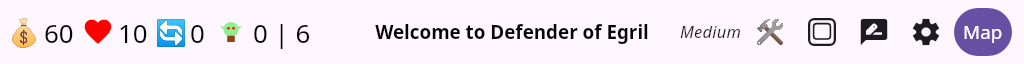
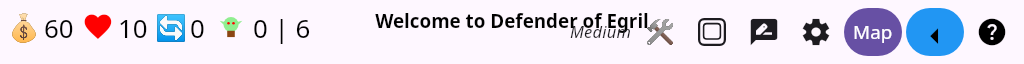
fix waagh meter in level header

Changed region(s): [[0.3438, 0.125, 1.0, 0.875], [0.0, 0.2188, 0.3125, 0.75]]

diff --git a/frontend/composeApp/src/commonMain/kotlin/de/egril/defender/ui/gameplay/GameHeader.kt b/frontend/composeApp/src/commonMain/kotlin/de/egril/defender/ui/gameplay/GameHeader.kt
@@ -115,88 +115,84 @@ fun GameHeader(
                     .padding(8.dp)
                     .zIndex(2f),
         ) {
-            Row(
+            val locale = com.hyperether.resources.currentLanguage.value
+            val titleFontSize =
+                when (headerTextSize) {
+                    de.egril.defender.ui.settings.HeaderTextSize.SMALL -> GamePlayConstants.TextSizes.Body
+                    de.egril.defender.ui.settings.HeaderTextSize.MEDIUM -> GamePlayConstants.TextSizes.Medium
+                    de.egril.defender.ui.settings.HeaderTextSize.LARGE -> GamePlayConstants.TextSizes.Large
+                }
+
+            Box(
                 modifier = Modifier.fillMaxWidth(),
-                verticalAlignment = Alignment.CenterVertically,
+                contentAlignment = Alignment.Center,
             ) {
-                Box(
-                    modifier = Modifier.weight(1f),
-                    contentAlignment = Alignment.CenterStart,
-                ) {
+                if (isDemoMode) {
                     Row(
-                        horizontalArrangement = Arrangement.spacedBy(GamePlayConstants.Spacing.Items),
+                        modifier =
+                            Modifier.then(if (onDemoTitleClick != null) Modifier.clickable { onDemoTitleClick() } else Modifier),
+                        horizontalArrangement = Arrangement.Center,
                         verticalAlignment = Alignment.CenterVertically,
                     ) {
-                        GameStats(
-                            gameState = gameState,
-                            onCheatCode = onCheatCode,
-                            headerTextSize = headerTextSize,
-                            onEnemyCountClick = onEnemyCountClick,
-                            onManaClick = onManaClick,
-                        )
-                    }
-                }
-
-                val locale = com.hyperether.resources.currentLanguage.value
-                val titleFontSize =
-                    when (headerTextSize) {
-                        de.egril.defender.ui.settings.HeaderTextSize.SMALL -> GamePlayConstants.TextSizes.Body
-                        de.egril.defender.ui.settings.HeaderTextSize.MEDIUM -> GamePlayConstants.TextSizes.Medium
-                        de.egril.defender.ui.settings.HeaderTextSize.LARGE -> GamePlayConstants.TextSizes.Large
-                    }
-
-                Box(
-                    modifier = Modifier.weight(1f),
-                    contentAlignment = Alignment.Center,
-                ) {
-                    if (isDemoMode) {
-                        Row(
-                            modifier =
-                                Modifier.then(if (onDemoTitleClick != null) Modifier.clickable { onDemoTitleClick() } else Modifier),
-                            horizontalArrangement = Arrangement.Center,
-                            verticalAlignment = Alignment.CenterVertically,
-                        ) {
-                            Text(
-                                text = "*** DEMO MODE ***",
-                                fontSize = titleFontSize,
-                                fontWeight = FontWeight.Bold,
-                                color = MaterialTheme.colorScheme.error,
-                            )
-                            Text(
-                                text = "  ${gameState.level.getLocalizedTitle(locale)}  ",
-                                fontSize = titleFontSize,
-                                fontWeight = FontWeight.Bold,
-                            )
-                            Text(
-                                text = "*** DEMO MODE ***",
-                                fontSize = titleFontSize,
-                                fontWeight = FontWeight.Bold,
-                                color = MaterialTheme.colorScheme.error,
-                            )
-                        }
-                    } else {
-                        SelectableText(
-                            text =
-                                if (gameState.level.isSandbox) {
-                                    "${stringResource(Res.string.sandbox)} — ${gameState.level.getLocalizedTitle(locale)}"
-                                } else {
-                                    gameState.level.getLocalizedTitle(locale)
-                                },
+                        Text(
+                            text = "*** DEMO MODE ***",
                             fontSize = titleFontSize,
                             fontWeight = FontWeight.Bold,
-                            modifier =
-                                Modifier
-                                    .wrapContentWidth()
-                                    .clickable { showLevelCardDialog = true },
-                            textAlign = TextAlign.Center,
+                            color = MaterialTheme.colorScheme.error,
+                        )
+                        Text(
+                            text = "  ${gameState.level.getLocalizedTitle(locale)}  ",
+                            fontSize = titleFontSize,
+                            fontWeight = FontWeight.Bold,
+                        )
+                        Text(
+                            text = "*** DEMO MODE ***",
+                            fontSize = titleFontSize,
+                            fontWeight = FontWeight.Bold,
+                            color = MaterialTheme.colorScheme.error,
                         )
                     }
+                } else {
+                    SelectableText(
+                        text =
+                            if (gameState.level.isSandbox) {
+                                "${stringResource(Res.string.sandbox)} — ${gameState.level.getLocalizedTitle(locale)}"
+                            } else {
+                                gameState.level.getLocalizedTitle(locale)
+                            },
+                        fontSize = titleFontSize,
+                        fontWeight = FontWeight.Bold,
+                        modifier =
+                            Modifier
+                                .wrapContentWidth()
+                                .clickable { showLevelCardDialog = true },
+                        textAlign = TextAlign.Center,
+                    )
                 }
+            }
 
-                Box(
-                    modifier = Modifier.weight(1f),
-                    contentAlignment = Alignment.CenterEnd,
+            Box(
+                modifier = Modifier.fillMaxWidth(),
+                contentAlignment = Alignment.CenterStart,
+            ) {
+                Row(
+                    horizontalArrangement = Arrangement.spacedBy(GamePlayConstants.Spacing.Items),
+                    verticalAlignment = Alignment.CenterVertically,
                 ) {
+                    GameStats(
+                        gameState = gameState,
+                        onCheatCode = onCheatCode,
+                        headerTextSize = headerTextSize,
+                        onEnemyCountClick = onEnemyCountClick,
+                        onManaClick = onManaClick,
+                    )
+                }
+            }
+
+            Box(
+                modifier = Modifier.fillMaxWidth(),
+                contentAlignment = Alignment.CenterEnd,
+            ) {
                     val buttonHeight =
                         when (headerTextSize) {
                             de.egril.defender.ui.settings.HeaderTextSize.SMALL -> GamePlayConstants.ButtonSizes.CompactHeight
@@ -216,10 +212,14 @@ fun GameHeader(
                             de.egril.defender.ui.settings.HeaderTextSize.LARGE -> GamePlayConstants.TextSizes.Large
                         }
                     Row(
+                        modifier = Modifier.wrapContentWidth(unbounded = true),
                         horizontalArrangement = Arrangement.spacedBy(4.dp),
                         verticalAlignment = Alignment.CenterVertically,
                     ) {
-                        WaaghBar(gameState = gameState)
+                        WaaghBar(
+                            gameState = gameState,
+                            slotHeight = buttonHeight,
+                        )
 
                         LevelHeaderIcons(
                             gameState = gameState,
@@ -488,7 +488,6 @@ fun GameHeader(
                             )
                         }
                     }
-                }
             }
             }
 
@@ -1082,9 +1081,16 @@ internal fun LevelSpecialTowersInfoDialog(
 }
 
 @Composable
-private fun WaaghBar(gameState: GameState) {
+private fun WaaghBar(
+    gameState: GameState,
+    slotHeight: Dp,
+) {
     if (!gameState.level.waaghEnabled || !gameState.hasHordeUnitsInLevel) return
 
+    val slotHeightPx = with(LocalDensity.current) { slotHeight.roundToPx() }
+    val waaghMeterHeight = slotHeight * 2f
+    val waaghMeterWidth = waaghMeterHeight * 2f
+    val waaghMeterVerticalOffset = -(waaghMeterHeight / 4f)
     val waaghPoints = gameState.waaghPoints.value.coerceIn(0, 100)
     val isFrenzyActive = gameState.waaghFrenzyActive.value
     val resource =
@@ -1109,20 +1115,31 @@ private fun WaaghBar(gameState: GameState) {
 
     TooltipWrapper(text = waaghTooltipText) {
         Row(
+            modifier =
+                Modifier.layout { measurable, constraints ->
+                    val placeable = measurable.measure(constraints.copy(minHeight = 0))
+                    layout(placeable.width, slotHeightPx) {
+                        placeable.placeRelative(0, 0)
+                    }
+                },
             horizontalArrangement = Arrangement.spacedBy(0.dp),
             verticalAlignment = Alignment.CenterVertically,
         ) {
             Image(
                 painter = painterResource(resource),
                 contentDescription = null,
-                modifier = Modifier.height(80.dp).width(160.dp),
+                modifier =
+                    Modifier
+                        .height(waaghMeterHeight)
+                        .width(waaghMeterWidth)
+                        .offset(y = waaghMeterVerticalOffset),
             )
             if (!isFrenzyActive) {
                 Text(
                     text = formatWaaghMeterPercent(waaghPoints),
                     color = getWaaghMeterColor(waaghProgress),
                     fontWeight = FontWeight.Bold,
-                    modifier = Modifier.offset(x = (-8).dp).padding(end = 8.dp),
+                    modifier = Modifier.offset(x = (-8).dp, y = waaghMeterVerticalOffset).padding(end = 8.dp),
                 )
             }
         }
